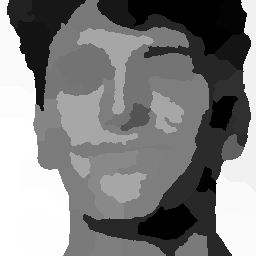
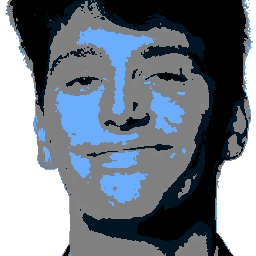
issue0006: changed default profile pic again

diff --git a/src/App.vue b/src/App.vue
@@ -111,6 +111,19 @@ const NoTestWallAccessToolTip =
                       <span>Admin Guide</span>
                     </SidebarMenuButton>
                   </SidebarMenuItem>
+                  <SidebarMenuItem>
+                    <SidebarMenuButton @click="$router.push('/account')">
+                      <img
+                        :src="sidebarProfilePicture"
+                        alt="profile picture"
+                        class="h-7 w-7 rounded-full object-cover border border-surface-300"
+                      />
+                      <span>
+                        {{ accountStore.account?.firstName }}
+                        {{ accountStore.account?.lastName }}
+                      </span>
+                    </SidebarMenuButton>
+                  </SidebarMenuItem>
                 </SidebarMenu>
               </SidebarGroup>
               <SidebarGroup>
@@ -172,24 +185,6 @@ const NoTestWallAccessToolTip =
                 </SidebarGroupContent>
               </SidebarGroup>
             </SidebarContent>
-            <SidebarFooter>
-              <SidebarMenu>
-                <SidebarMenuItem>
-                  <Divider />
-                  <SidebarMenuButton @click="$router.push('/account')">
-                    <img
-                      :src="sidebarProfilePicture"
-                      alt="profile picture"
-                      class="h-7 w-7 rounded-full object-cover border border-surface-300"
-                    />
-                    <span>
-                      {{ accountStore.account?.firstName }}
-                      {{ accountStore.account?.lastName }}
-                    </span>
-                  </SidebarMenuButton>
-                </SidebarMenuItem>
-              </SidebarMenu>
-            </SidebarFooter>
             <SidebarRail />
           </SidebarPanel>
         </SidebarAside>
